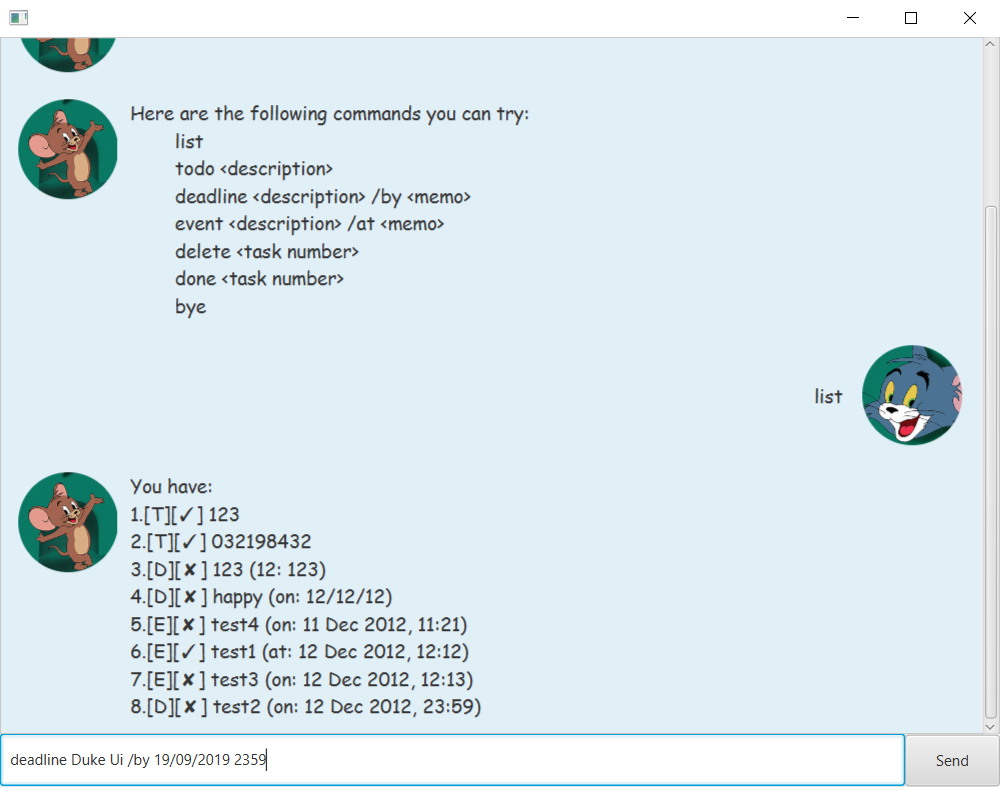
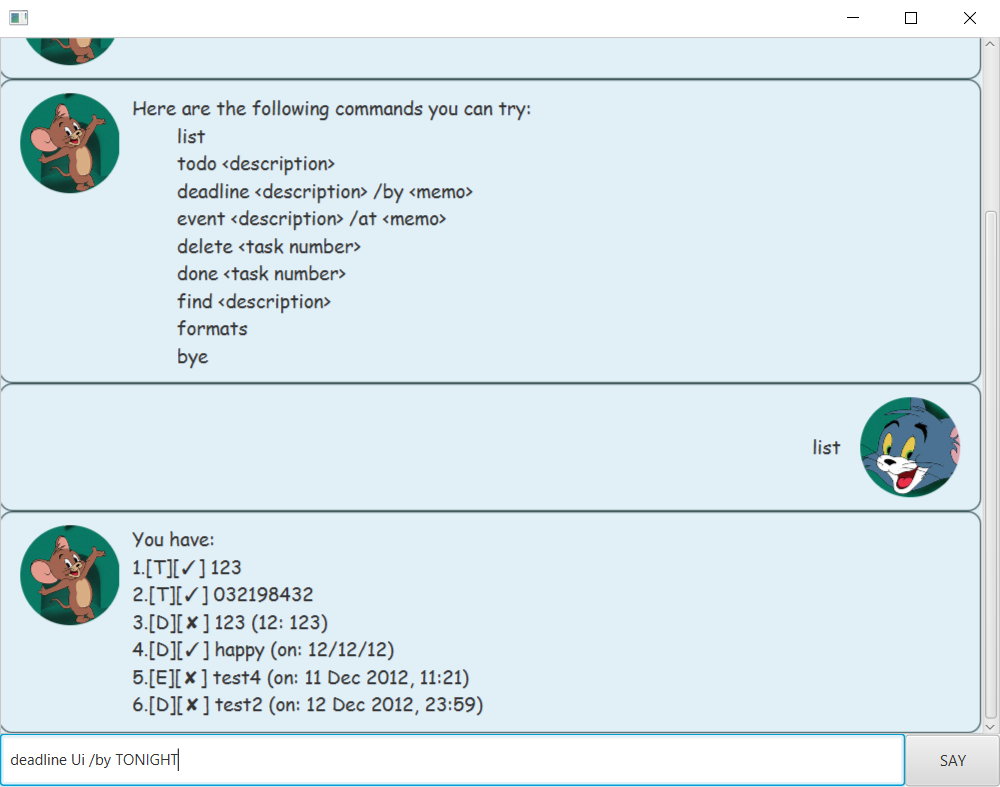
chore: updated README.md

diff --git a/src/main/java/Ui.java b/src/main/java/Ui.java
@@ -48,6 +48,8 @@ class Ui {
                 "\tevent <description> /at <memo>\n" +
                 "\tdelete <task number>\n" +
                 "\tdone <task number>\n" +
+                "\tfind <description>\n" +
+                "\tformats\n" +
                 "\tbye";
     }
 
@@ -65,7 +67,9 @@ class Ui {
                 "done<space>list_index\n" +
                 "\teg. done 6 (deletes Task number 6)\n" +
                 "delete<space>list_index\n" +
-                "\teg. delete 3 (deletes Task number 3)";
+                "\teg. delete 3 (deletes Task number 3)\n" +
+                "find<space>description\n" +
+                "\teg. find shopping";
     }
 
     static String printFind(String input, TaskList tasks) {

diff --git a/docs/README.md b/docs/README.md
@@ -1,20 +1,39 @@
 # User Guide
 
-## Features 
+Say Hello to the **TOM and JERRY Task Tracker**!
+Create and manage your todo lists with the following commands:
 
-### Feature 1 
-Description of feature.
+## View Tasks
+### `list` - shows you the current task list
 
-## Usage
+## Add Tasks
+There are 3 different kinds of tasks that you can add: 
+### 1. ToDos - `todo <description>`
+eg. `todo sweep the floor`
+### 2. Deadlines - `deadline <description> /<preposition> <memo>`
+eg. `deadline assignment submission /by 09/08/2019 2059`
+### 3. Events - `event <description> /<preposition> <memo>`
+eg. `event happy new year /on 31/12/2019 2359`
 
-### `Keyword` - Describe action
+NOTE: Entering the `<memo>` with the format `dd/MM/yyyy HHmm` will cause it to be converted to a real date and time. 
+This will then allow the task to be sorted across the entire list. 
+NOTE: The prepositions in the examples can be replaced with any word. 
 
-Describe action and its outcome.
+## Mark Completed Tasks
+### `done <list_index>` - marks that task as done
+eg. `done 4` 
 
-Example of usage: 
+## Delete Tasks
+### `delete <list_index>` - deletes that task from the list
+eg. `delete 6`
+NOTE: it is non-recoverable! So look before you submit!
 
-`keyword (optional arguments)`
+## Find Tasks
+### `find <description>` - shows all the tasks that contain that description
+eg. `find obladi`
 
-Expected outcome:
+## Check input formats
+### `formats` - shows all possible input formats
 
-`outcome`
+## Quit
+### `bye` - exits the Task Tracker
